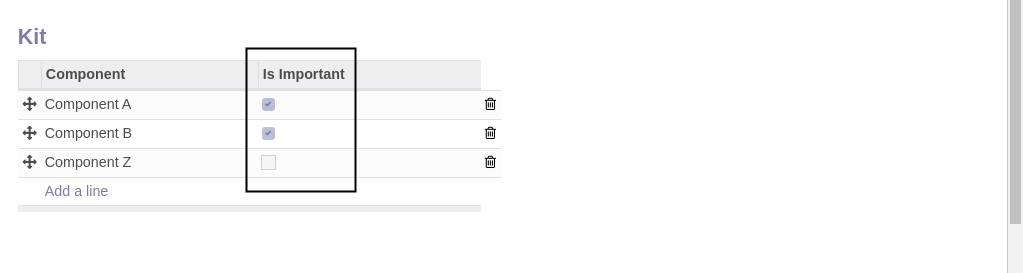
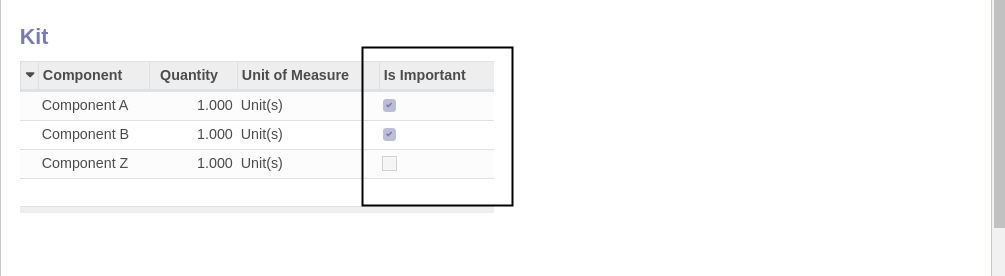
Add quantity and uom on kit components

diff --git a/product_kit/models/product_kit_line.py b/product_kit/models/product_kit_line.py
@@ -1,7 +1,9 @@
 # © 2020 - today Numigi (tm) and all its contributors (https://bit.ly/numigiens)
 # License LGPL-3.0 or later (http://www.gnu.org/licenses/lgpl).
 
-from odoo import fields, models
+from odoo import api, fields, models, _
+from odoo.addons import decimal_precision as dp
+from odoo.exceptions import ValidationError
 
 
 class ProductKitLine(models.Model):
@@ -21,4 +23,35 @@ class ProductKitLine(models.Model):
         "product.product", "Component", ondelete="restrict", required=True
     )
 
+    uom_id = fields.Many2one("uom.uom", "Unit of Measure", required=True)
+
+    quantity = fields.Float(
+        digits=dp.get_precision("Product Unit of Measure"), required=True, default=1
+    )
+
     is_important = fields.Boolean()
+
+    @api.onchange("component_id")
+    def _set_default_uom(self):
+        if self.component_id:
+            self.uom_id = self.component_id.uom_id
+
+    @api.constrains("component_id", "uom_id")
+    def _check_component_uom_category(self):
+        for line in self:
+            component = line.component_id
+            uom = line.uom_id
+            if component.uom_id.category_id != uom.category_id:
+                raise ValidationError(
+                    _(
+                        "The component {component} is defined on the kit {kit} "
+                        "with the unit of measure {uom}. "
+                        "This unit of measure is incompatible with the unit "
+                        "of measure defined on the component ({component_uom})."
+                    ).format(
+                        component=component.display_name,
+                        component_uom=component.uom_id.display_name,
+                        kit=line.product_template_id.display_name,
+                        uom=uom.display_name,
+                    )
+                )

diff --git a/product_kit/tests/test_product.py b/product_kit/tests/test_product.py
@@ -10,10 +10,33 @@ class TestProduct(common.SavepointCase):
     @classmethod
     def setUpClass(cls):
         super().setUpClass()
+        cls.uom_dozen = cls.env.ref("uom.product_uom_dozen")
+        cls.uom_unit = cls.env.ref("uom.product_uom_unit")
+        cls.uom_day = cls.env.ref("uom.product_uom_day")
+        cls.component = cls.env["product.product"].create(
+            {"name": "My Component", "type": "consu", "uom_id": cls.uom_unit.id}
+        )
         cls.product = cls.env["product.product"].create(
-            {"name": "My Kit", "is_kit": True, "type": "service"}
+            {
+                "name": "My Kit",
+                "is_kit": True,
+                "type": "service",
+                "kit_line_ids": [
+                    (
+                        0,
+                        0,
+                        {"component_id": cls.component.id, "uom_id": cls.uom_dozen.id},
+                    )
+                ],
+            }
         )
 
     def test_kit_must_be_a_service(self):
         with pytest.raises(ValidationError):
             self.product.type = "consu"
+
+    def test_component_uom_category(self):
+        with pytest.raises(ValidationError):
+            self.component.write(
+                {"uom_id": self.uom_day.id, "uom_po_id": self.uom_day.id}
+            )

diff --git a/product_kit/models/product_template.py b/product_kit/models/product_template.py
@@ -27,3 +27,10 @@ class ProductTemplate(models.Model):
                 raise ValidationError(
                     _("A kit must strictly be a product of type service.")
                 )
+
+    @api.constrains("uom_id")
+    def _check_related_kit_line_uom(self):
+        kit_lines = self.env["product.kit.line"].search(
+            [("component_id.product_tmpl_id", "in", self.ids)]
+        )
+        kit_lines._check_component_uom_category()
